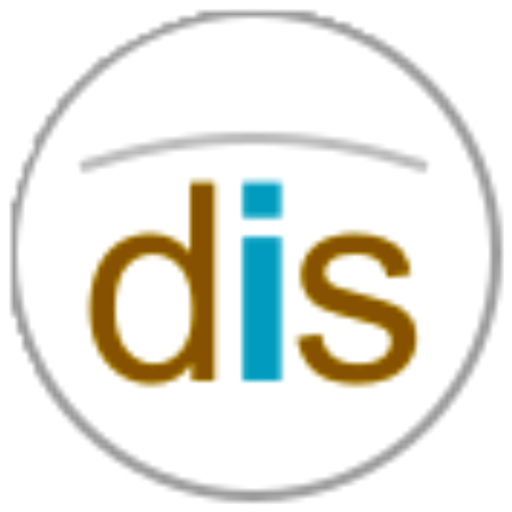
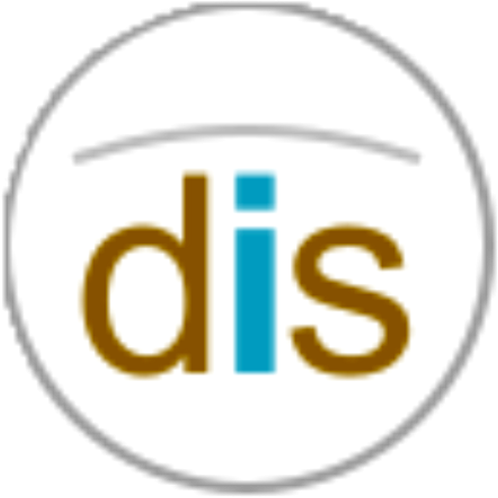
Lift the round mark off its white box, and quieten the heading
The mark arrived as a favicon: flat colour painted on a white page, in a
512px square it did not fill. On the cream heading band that white read
as a sticker the logo had been printed on.

Keyed out by unmultiplying rather than by thresholding. Every pixel is
ink over white - P = a*C + (1-a)*255 - so the channel furthest from
white gives the coverage, and dividing it back out recovers the ink's
own colour. Edges keep their shape and carry no rim of the white they
were drawn on, which a threshold would have left behind on every letter.
Then cropped to the ink and squared up, so the circle is neither clipped
nor sitting off-centre in its own box.

Sharpness was never the limit: 498px of mark shown at 30. What made it
look poor was the white box around it and the crop.

The heading: 500 was still heavier than it needed to be at this size, so
400, and a shade smaller. It takes the logo's own brown rather than
being another grey - it names the thing being made, which is worth
reading once and then ignoring, and it should not compete with the
fields under it.

diff --git a/src/medialog/docenttheme/theme/styles/add_form.css b/src/medialog/docenttheme/theme/styles/add_form.css
@@ -119,14 +119,17 @@ h2.sit_tit {
     margin: 0 auto;
     background-color: #f9f2e8;
     padding: 0.5rem 1.4rem;
-    color: #555;
-    font-size: 1.15rem;
-    /* Plone's h1 is 700. On a band this small that reads as shouting, and
-       the heading is not the thing anyone came to the page to read. */
-    font-weight: 500;
+    /* The logo's own brown. The heading names the thing being made, which
+       is worth reading once and then ignoring - so it takes the colour of
+       the mark beside it rather than being another grey, and sits light
+       enough not to compete with the fields under it. */
+    color: #865100;
+    font-size: 1.05rem;
+    font-weight: 400;
+    letter-spacing: 0.01em;
     display: flex;
     align-items: center;
-    gap: 12px;
+    gap: 10px;
 }
 
 /* The round mark, on the heading's own row rather than on a band of its
@@ -138,9 +141,9 @@ h2.sit_tit {
 .template-edit h1.documentFirstHeading::before,
 .viewpermission-add-portal-content h1.documentFirstHeading::before {
     content: "";
-    flex: 0 0 34px;
-    width: 34px;
-    height: 34px;
+    flex: 0 0 30px;
+    width: 30px;
+    height: 30px;
     background: url(../images/docent-round.png) center / contain no-repeat;
 }
 
